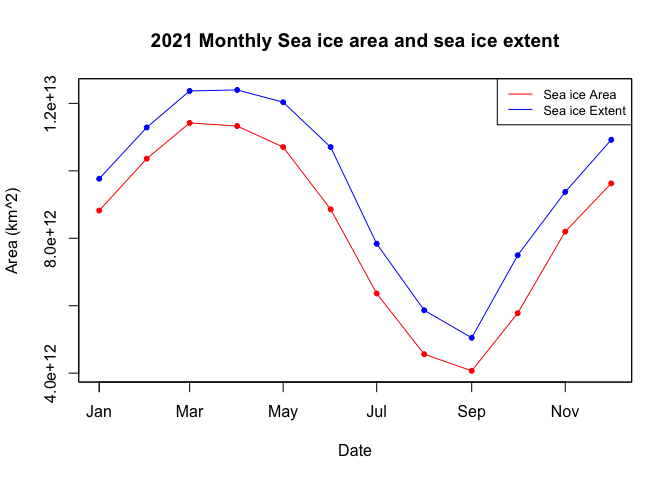
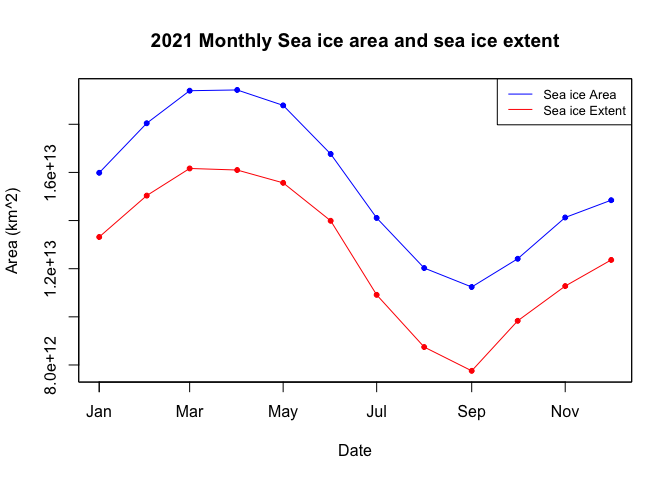
calc seaice - corrected matching of indices between 2 datasets

diff --git a/calculate-seaice-extent/R/sea_ice_extent.md b/calculate-seaice-extent/R/sea_ice_extent.md
@@ -11,12 +11,12 @@ observations are a key tool in tracking sea ice cover, providing
 continuous global coverage extending back to 1978. Typically, sea ice
 cover is reported as sea ice concentration, which is the percent areal
 coverage of ice within a grid cell. Depending on the application,
-additional parameters of interest can be calculated from sea ice
-cover:  
-\* **Sea ice area** - the sum of the product of ice concentration and
-area of all grid cells with at least 15% ice concentration.  
-\* **Sea ice extent** - the sum of the areas of all grid cells with at
-least 15% ice concentration
+additional parameters of interest can be calculated from sea ice cover:
+
+- **Sea ice area** - the sum of the product of ice concentration and
+  area of all grid cells with at least 15% ice concentration.  
+- **Sea ice extent** - the sum of the areas of all grid cells with at
+  least 15% ice concentration
 
 ## Objective
 
@@ -95,7 +95,7 @@ for (pk in list.of.packages) {
 options(download.file.method="libcurl", url.method="libcurl")
 ```
 
-# Get the sea ice data from ERDDAP
+## Get the sea ice data from ERDDAP
 
 Here we download the average monthly sea ice concentration for the
 Arctic from 2021 (January to December). We are using the NSIDC Sea Ice
@@ -144,7 +144,7 @@ var1 <- nc$var[[1]]
 print(var1)
 
 # Get variable values
-sic=ncvar_get(nc,var1$name)
+sic <- ncvar_get(nc,var1$name)
 
 # Examine dimension of variable values
 dim(sic)
@@ -154,7 +154,7 @@ xgrid <- var1$dim[[1]]$vals
 ygrid <- var1$dim[[2]]$vals
 
 # convert time variable to date format
-dates=as.POSIXlt(var1$dim[[3]]$vals,origin='1970-01-01',tz='GMT')
+dates <- as.POSIXlt(var1$dim[[3]]$vals,origin='1970-01-01',tz='GMT')
 
 # Close and remove the netCDF file and clear memories
 nc_close(nc)
@@ -163,14 +163,21 @@ file.remove('sic.nc')
 
 ## Plot Sea Ice Concentration Data
 
+To plot sea ice concentration (sic) data that are in xgrid and ygrid
+dimensions, we will create a data frame with coordiantes (xgrid, ygrid)
+and associated sea ice concentration values.
+
 ``` r
-# create dataframe
+# Create a data frame with all combinations of xgrid and ygrid
 sicd <- expand.grid(xgrid=xgrid, ygrid=ygrid)
+
+# Add sic data array to the data frame
 sicd$sic <- array(sic, dim(xgrid)*dim(ygrid))
 
-# exclude fillvalue
+# exclude fillvalue and all other mask values
 sicd$sic[sicd$sic > 2] <- NA 
-# map sea ice concentration
+
+# Map sea ice concentration
 ggplot(data = sicd, aes(x = xgrid, y = ygrid, fill=sic) ) + 
        geom_tile() + 
        coord_fixed(ratio = 1) + 
@@ -182,10 +189,11 @@ ggplot(data = sicd, aes(x = xgrid, y = ygrid, fill=sic) ) +
 
 ![](images/unnamed-chunk-2-1.png)<!-- -->
 
-## Get the grid cell area for each grid of the polar stereographic proection
+## Download grid cell area values
 
-Now we download the the cell area values (m^2) of each grid cell in the
-25km resolution Northern Polar Stereographic projection.
+While the resolution of this data set is 25km (25km by 25km grid), the
+actual area of the grid depends on the grid projection. We will download
+the grid area values from PolarWatch ERDDAP.
 
 ``` r
 cell_url <- "https://polarwatch.noaa.gov/erddap/griddap/pstere_gridcell_N25k.nc?cell_area%5B(5837500.0):1:(-5337500.0)%5D%5B(-3837500.0):1:(3737500.0)%5D"
@@ -209,11 +217,6 @@ print(nc1)
 
 # Examine names of variables
 names(nc1$var)
-# cell_area[x,y]
-# y 448 (actual_range: -5337500
-#             actual_range: 5837500)
-# x 304            actual_range: -3837500
-#            actual_range: 3737500
 
 # Get first variable metadata
 area_var <- nc1$var[[1]]
@@ -241,11 +244,21 @@ file.remove('gridcell.nc')
 
 ## Match cell area grids with sic grids
 
-``` r
-x_indices <- which(xgrid %in% x_area)
-y_indices <- which(ygrid %in% y_area)
+Now we have two data sets: sea ice concentration and grid cell values
+for each grid of northern polar stereographic projection. As examined in
+the metadata, the grid cell area dataset has a larger spatial coverage
+meaning sic data grid coverage is a subset of the grid area data
+coverage.
 
-sic.match <- sic[x_indices, y_indices,]
+We will extract only the grid areas of the grids that are included in
+the sea ice concentration data set.
+
+``` r
+# Get indices in areas where x and y grids equal those of sic
+x_indices <- match(xgrid, x_area)
+y_indices <- match(ygrid, y_area)
+
+# Extract grid area
 grid.match <- cellarea[x_indices, y_indices]
 ```
 
@@ -266,45 +279,43 @@ guide. For the calculation of sea ice area and extent with a threshold,
 go to the NSIDC article.
 
 ``` r
-# Set 0 to sic values greater than 1 (removal of flag values)
-sic.match[sic.match > 1] <- 0
-
 # Set 0 to sic values less than 0.15 (applying 0.15 threshold)
-sic.match[sic.match < 0.15] <- 0
+sic[sic < 0.15] <- 0
 
 # Set NA to 0
-sic.match[is.na(sic.match)] <- 0
+sic[is.na(sic)] <- 0
 
 # Sic for extent calc
-sic_ext <- sic.match
+sic_ext <- sic
 sic_ext[sic_ext >= 0.15] <- 1
 
 # Perform element-wise multiplication for time step :1 
-area_total <- sic.match[,,1] * grid.match
+area_total <- sic[,,1] * grid.match
 ext_total <- sic_ext[,,1] * grid.match
 
-# Sum sea ice grid area for time step: 1
+# Sum sea ice grid area and convert from m^2 to km^2
 area <- sum(area_total, na.rm = TRUE) / 1000000
 extent <- sum(ext_total, na.rm = TRUE) / 1000000
+
 print(paste("Sea Ice Area (km^2): ", area))
 ```
 
-    ## [1] "Sea Ice Area (km^2):  12352936.1797234"
+    ## [1] "Sea Ice Area (km^2):  19712238.9577206"
 
 ``` r
 print(paste("Sea Ice Extent (km^2): ", extent))
 ```
 
-    ## [1] "Sea Ice Extent (km^2):  13608755.1037903"
+    ## [1] "Sea Ice Extent (km^2):  16649530.4783623"
 
 ## Generate the sea ice area and extent time series
 
 ``` r
 # Replicate grid areas for all timestep
-rep_grid_areas <- array(rep(grid.match, each=dim(sic.match)[3]), dim=dim(sic.match))
+rep_grid_areas <- array(rep(grid.match, each=dim(sic)[3]), dim=dim(sic))
 
 # Perform element-wise multiplication
-area_total12 <- sic.match * rep_grid_areas
+area_total12 <- sic * rep_grid_areas
 ext_total12 <- sic_ext * rep_grid_areas
 
 area12 <- apply(area_total12, c(3), sum)
@@ -316,10 +327,10 @@ ext12 <- apply(ext_total12, c(3), sum)
 ``` r
 upper = max(max(ext12), max(area12))
 lower = min(min(ext12), min(area12))
-plot(dates,ext12,type='o',pch=20,xlab='Date',ylab='Area (km^2)', col="blue" , ylim=c(lower, upper),  main="2021 Monthly Sea ice area and sea ice extent")
-lines(dates, area12, type='o', pch=20, col="red")
+plot(dates,ext12,type='o',pch=20,xlab='Date',ylab='Area (km^2)', col="red" , ylim=c(lower, upper),  main="2021 Monthly Sea ice area and sea ice extent")
+lines(dates, area12, type='o', pch=20, col="blue")
 legend("topright", legend=c("Sea ice Area", "Sea ice Extent"),
-       col=c("red", "blue"), lty=1:1, cex=0.8)
+       col=c("blue", "red"), lty=1:1, cex=0.8)
 box()
 ```
 
